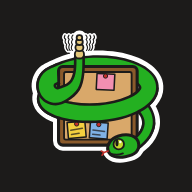
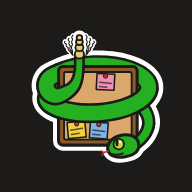
wrote on the pink note and made the rattling a swing

Changed region(s): [[0.4375, 0.1562, 0.5312, 0.3125], [0.3125, 0.1562, 0.4062, 0.3125], [0.5, 0.4062, 0.5938, 0.4688]]

diff --git a/CLAUDE.md b/CLAUDE.md
@@ -54,7 +54,7 @@ Every module has its <name>_test.mjs; the browser halves are encodings_test.html
 
 ### GUI
 
-- A PWA served from 127.0.0.1:8080 by `python3 -m http.server`, phone first, with tabs at the bottom: Inbox, Boards, Compose (its section and stored tab name are still `send`), Outbox and Station, Inbox first; the Log is the end of the Station tab, and a stored `log` tab opens the Inbox. sw.js fetches the whole app when it installs (FILES: the page, styles, icons, every module and all six WebAssembly modules, ROBUSTO's at both rates, about 1 MB), so it works offline once opened, even what the device hasn't used yet; requests go network first, and each online start fetches all of FILES again in the background so nothing goes stale. sw_test.mjs checks FILES against what index.html, the manifest and the modules load, so a new module can't be left out. The manifest has a fixed `id` ("./"). The logo, icon.svg, is a rattlesnake coiled round a board of notes, its rattle raised like an antenna with Rattlegram's rattling lines, its body thin at the neck, thick through the coil and most of the tail and tapering to the rattle's width (outlines round the centre line, sampled densely and fitted with Bézier curves), in a white outline that keeps it clear on dark backgrounds, and within a circle; icon-192.png and icon-512.png are it on transparent, icon-180.png (iOS) on the dark background, and icon-maskable.svg is it at 90% on the dark background, inside the round safe zone, rendered to 192 and 512 pixels; all are rendered in Chromium at their size; .nojekyll keeps GitHub Pages from running Jekyll over the files.
+- A PWA served from 127.0.0.1:8080 by `python3 -m http.server`, phone first, with tabs at the bottom: Inbox, Boards, Compose (its section and stored tab name are still `send`), Outbox and Station, Inbox first; the Log is the end of the Station tab, and a stored `log` tab opens the Inbox. sw.js fetches the whole app when it installs (FILES: the page, styles, icons, every module and all six WebAssembly modules, ROBUSTO's at both rates, about 1 MB), so it works offline once opened, even what the device hasn't used yet; requests go network first, and each online start fetches all of FILES again in the background so nothing goes stale. sw_test.mjs checks FILES against what index.html, the manifest and the modules load, so a new module can't be left out. The manifest has a fixed `id` ("./"). The logo, icon.svg, is a rattlesnake coiled round a board of notes, its rattle raised like an antenna with Rattlegram's rattling lines (fanning out from one point beside its first segment, the outer ones shorter, as a tip swinging out reaches less high), its body thin at the neck, thick through the coil and most of the tail and tapering to the rattle's width (outlines round the centre line, sampled densely and fitted with Bézier curves), in a white outline that keeps it clear on dark backgrounds, and within a circle; icon-192.png and icon-512.png are it on transparent, icon-180.png (iOS) on the dark background, and icon-maskable.svg is it at 90% on the dark background, inside the round safe zone, rendered to 192 and 512 pixels; all are rendered in Chromium at their size; .nojekyll keeps GitHub Pages from running Jekyll over the files.
 - The page loads the ROBUSTO modules for `AudioContext.sampleRate` (44100 or 48000), otherwise asks for 48000.
 - Inbox and Boards: conversations of the BBS tree, newest activity first, each a card with its subject, author, number of posts and last arrival, the inbox ones with why they are there (call signs and names marked as uncertain). Boards lists Everyone, the group-name boards and Elsewhere for Replies whose parent hasn't arrived. A conversation shows as a nested tree, posts drawn as in the log (faceless until trusted), indented at most four levels; a direct one hides posts by others behind "N more from others". Redrawn as frames arrive or trust changes; no unread tracking.
 - Log, at the end of Station (decoding a recording scrolls to it): every frame received and sent, newest first, with the parsed records. Malformed frames show as dropped. An identicon (mirrored 5x5 grid, colours --id-0..7) sits beside every verified signature, or the avatar with call sign and name once the key is trusted. Trust asks first, showing the whole fingerprint and any revocation seen of it; Untrust is one tap; a compromised key is marked and has no button, a retired key's posts that arrived after its revocation say "retired key", and a Revoke says whether it was kept; own keys say "your key" and show the call sign and name from the key list. From prefixes are marked unverified unless signed by a trusted key. To-Key chips show the recipient's identicon and, once trusted or own, its call sign and name, and whether it is revoked. Pictures (WebP parts, and MIME escapes whose bytes are PNG, JPEG, GIF or WebP, whatever type they claim) show as a "show picture, JPEG, 64x48, 1.0 KiB" button ("animated GIF" for one that moves), the full-size dialog with the same; in a thread, one up to 1024x1024 under a trusted key's signature is drawn right away, scaled to fit, and avatars under a trusted key's signature are drawn right away anywhere. One beyond 4096 pixels on a side, a possible decoding bomb, is never drawn right away: its button reads "show very large picture" in the warning colour and asks first, with its size and the memory it takes decoded, Cancel first; the Compose tab says so of such an attachment too. A drawn picture opens at full size in a dialog when tapped, scrolling if it is larger than the screen, closed by Close, Escape or a tap beside it; animated ones stay still there too until hovered or touched. Pictures, avatars, Codec2 (with its .c2 header rebuilt, version 0.8 for FFmpeg) and MIME files have a Save button: direct under a trusted key's signature, otherwise "Save…" asks twice, Cancel first; only a MIME escape names its file, the rest are named by their BLAKE2s-256 hash plus the extension of their type (.bin for unknown types). Posts with an ID have a Reply button, so only signed or Keyed ones.
